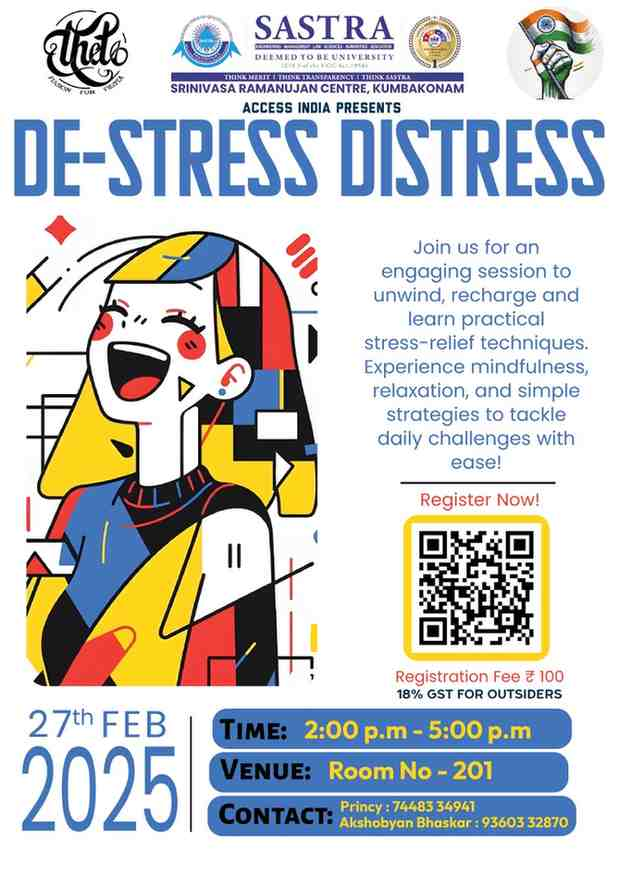
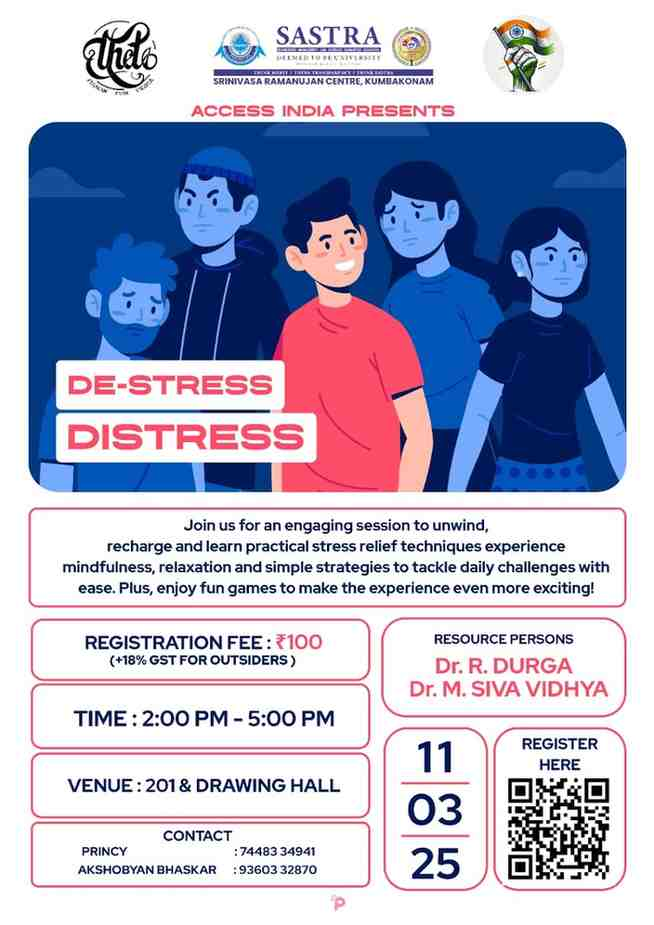
Update workshop venue details for accuracy

diff --git a/src/Pages/Workshops.js b/src/Pages/Workshops.js
@@ -107,7 +107,7 @@ const workshopData = [
     title: "DE-STRESS DISTRESS ",
     date: "Date: 11th-Mar-2025",
     time: "Time: 2:00 p.m - 05:00 p.m.",
-    venue: "Venue: 201 and ground",
+    venue: "Venue: 201 and Drawing hall",
     chiefGuest: "Staff: Siva Vidhya and Durga Ravi ",
     registrationLink:
       "https://docs.google.com/forms/u/1/d/e/1FAIpQLSdRruHObAbF6E8jByvn3KkWL7kwftR9jz8nVy7pSVfreTuiag/viewform?usp=send_form",
